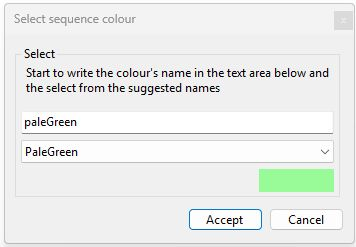
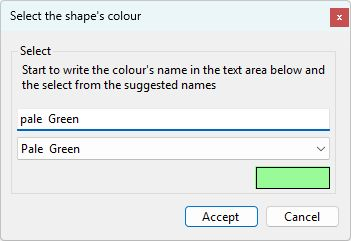
Making colour selection by name nicer

diff --git a/TransGBViewer/AAColourSelectionListBox.cs b/TransGBViewer/AAColourSelectionListBox.cs
@@ -45,8 +45,9 @@ namespace TransGBViewer
             colourNameslist = new AutoCompleteStringCollection();
             foreach (var color in sorted)
             {
-                cboColours.Items.Add(color.Name.ToString());
-                colourNameslist.Add(color.Name.ToString());
+                string name = AddSpace(AddSpace(color.Name.ToString()));
+                cboColours.Items.Add(name);
+                colourNameslist.Add(name);
             }
 
             int index=0;
@@ -60,6 +61,18 @@ namespace TransGBViewer
             txtSuggestion.AutoCompleteMode = AutoCompleteMode.SuggestAppend;
             txtSuggestion.AutoCompleteSource = AutoCompleteSource.CustomSource;
             txtSuggestion.AutoCompleteCustomSource = colourNameslist;
+        }
+
+        private string AddSpace(string text)
+        {
+            string spaced = text.Substring(0, 1);
+            for (int index = 1; index < text.Length; index++)
+            {
+                if (char.IsUpper(text[index]) == true)
+                { spaced += " "; }
+                spaced += text[index].ToString();
+            }
+            return spaced;
         }
 
         private void txtSuggestion_TextChanged(object sender, EventArgs e)
@@ -94,9 +107,9 @@ namespace TransGBViewer
         private void cboColours_SelectedIndexChanged(object sender, EventArgs e)
         {
             if (changingTextColour == true)
-            { textColour = Color.FromName(cboColours.Text); }
+            { textColour = Color.FromName(cboColours.Text.Replace(" ","")); }
             else
-            { backgroundColour = Color.FromName(cboColours.Text); }           
+            { backgroundColour = Color.FromName(cboColours.Text.Replace(" ", "")); }           
 
             Bitmap bmp = new Bitmap(p1Example.Width, p1Example.Height);
             Graphics g = Graphics.FromImage(bmp);
@@ -106,6 +119,7 @@ namespace TransGBViewer
             int x = (bmp.Width - size.Width) / 2;
             int y = (bmp.Height - size.Height) / 2;
             g.DrawString(aa,f,new SolidBrush(textColour), x, y);
+            g.DrawRectangle(Pens.Black, new RectangleF(1, 1, bmp.Width - 2, bmp.Height - 2));
             p1Example.Image = bmp;
             
         }
